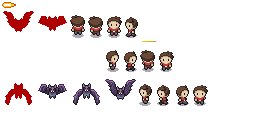
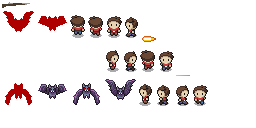
Added Gun Sprite To Atlas

Changed region(s): [[0.0, 0.0, 0.125, 0.0625], [0.5312, 0.2812, 0.625, 0.3438], [0.6875, 0.5625, 0.75, 0.5938]]

diff --git a/core/src/com/mygdx/panzerliedsurvivor/SpriteProcessor.java b/core/src/com/mygdx/panzerliedsurvivor/SpriteProcessor.java
@@ -37,6 +37,8 @@ public class SpriteProcessor {
         textureAtlas = new TextureAtlas("pls_survivor.atlas");
 
         miscTextureRegions.put("bullet", textureAtlas.findRegion("bullet"));
+        miscTextureRegions.put("m1garand", textureAtlas.findRegion("m1garand"));
+
 
         playerWalkingDownTexReg = createSpriteTextureRegion("walking_down", 1, 4);
         playerWalkingUpTexReg = createSpriteTextureRegion("walking_up", 1, 4);
